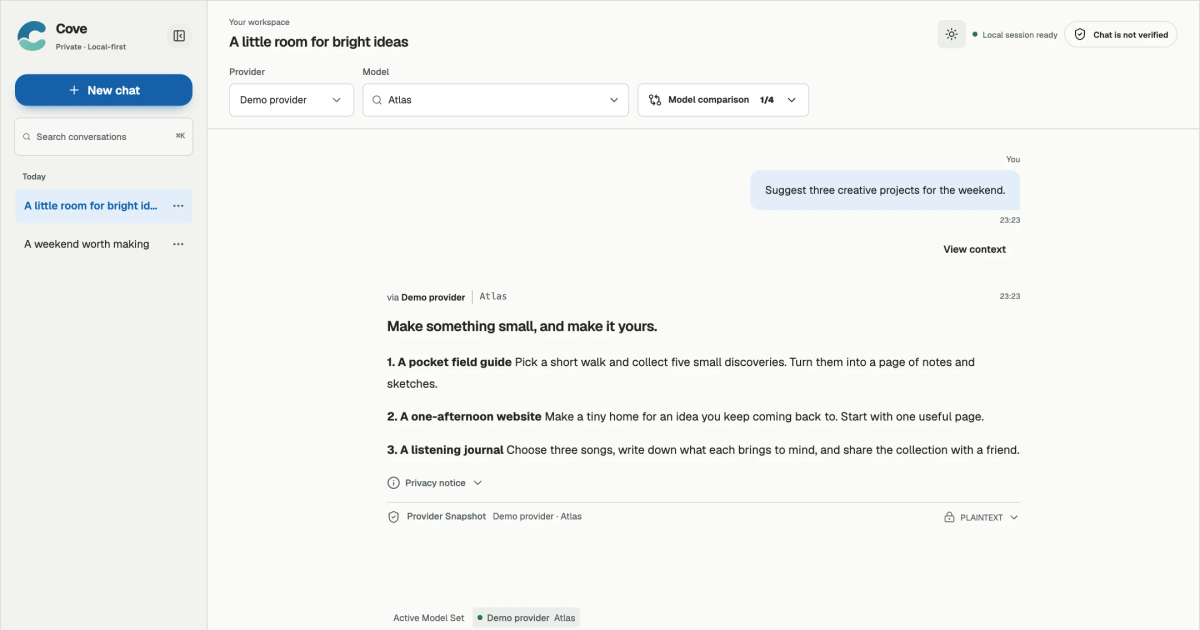
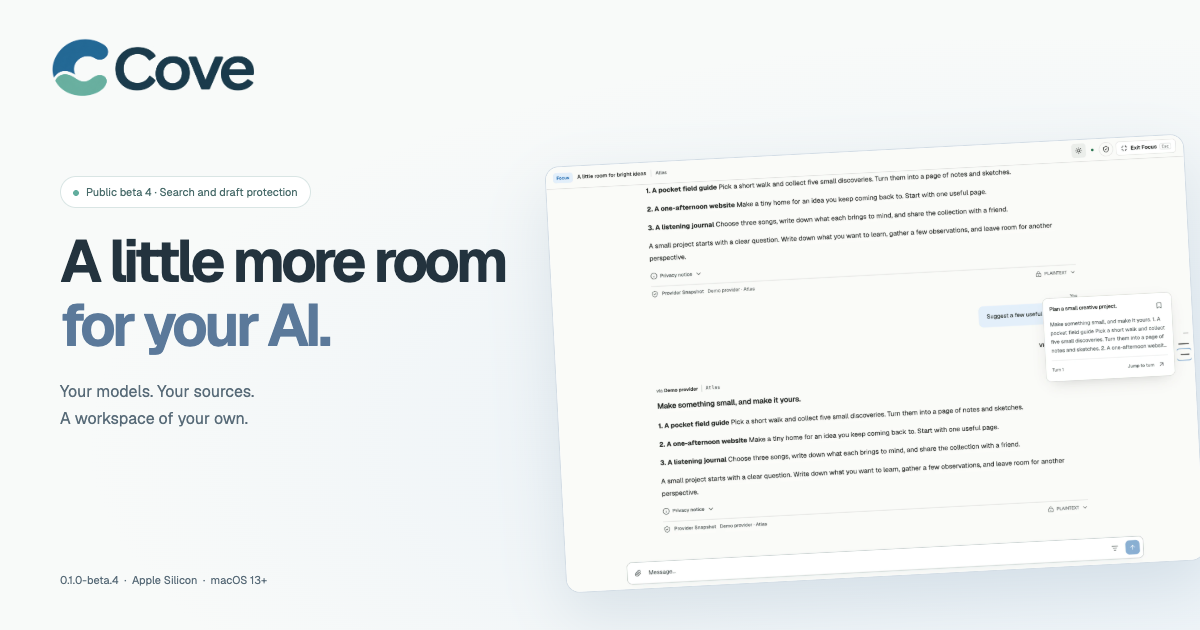
Update Cove website for Beta 4 history and draft protection

diff --git a/docs/cove/index.html b/docs/cove/index.html
@@ -5,13 +5,13 @@
   <meta name="viewport" content="width=device-width, initial-scale=1">
   <meta name="theme-color" content="#fafbf9">
   <title>Cove — A little more room for your AI.</title>
-  <meta name="description" content="A local-first AI chat app for Mac. Chat with files, compare model answers, and keep your conversations on your Mac. Download Cove 0.1.0-beta.3.">
+  <meta name="description" content="A local-first AI chat app for Mac. Chat with files, compare answers, search local history, and protect unsent drafts. Download Cove 0.1.0-beta.4.">
   <link rel="canonical" href="https://tokenfunplus.github.io/cove/">
   <meta property="og:type" content="website">
   <meta property="og:title" content="Cove — A little more room for your AI.">
-  <meta property="og:description" content="Chat with text, code, and PDFs in your own Mac workspace. Cove 0.1.0-beta.3 is available now.">
+  <meta property="og:description" content="Search saved messages, protect drafts, and export comparison choices in your own Mac workspace. Cove 0.1.0-beta.4 is available now.">
   <meta property="og:url" content="https://tokenfunplus.github.io/cove/">
-  <meta property="og:image" content="https://tokenfunplus.github.io/assets/cove-social.png?v=4">
+  <meta property="og:image" content="https://tokenfunplus.github.io/assets/cove-social.png?v=6">
   <meta property="og:image:width" content="1200">
   <meta property="og:image:height" content="630">
   <meta name="twitter:card" content="summary_large_image">
@@ -29,27 +29,27 @@
         <a href="#features">Features</a><a href="#files">File chat</a><a href="#workspace">Your workspace</a><a href="#privacy">Privacy</a>
       </nav>
       <button class="menu-toggle" data-menu type="button" aria-controls="navigation" aria-expanded="false">Menu</button>
-      <a class="button compact header-download" href="https://github.com/tokenfunplus/cove/releases/download/v0.1.0-beta.3/Cove-0.1.0-beta.3-arm64.dmg">Download for Mac <span aria-hidden="true">↓</span></a>
+      <a class="button compact header-download" href="https://github.com/tokenfunplus/cove/releases/download/v0.1.0-beta.4/Cove-0.1.0-beta.4-arm64.dmg">Download for Mac <span aria-hidden="true">↓</span></a>
     </div>
   </header>
 
   <main id="main">
     <section class="hero" aria-labelledby="hero-title">
-      <a class="release-badge" href="https://github.com/tokenfunplus/cove/releases/tag/v0.1.0-beta.3">Beta 3 is here · Focus and find your place <span aria-hidden="true">↗</span></a>
+      <a class="release-badge" href="https://github.com/tokenfunplus/cove/releases/tag/v0.1.0-beta.4">Beta 4 is here · Search your history <span aria-hidden="true">↗</span></a>
       <h1 id="hero-title">A little more room<br><span>for your AI.</span></h1>
-      <p class="intro">Bring your models and source files together. Compare answers, focus on a reply, and bookmark your place.</p>
+      <p class="intro">Bring your models and source files together. Compare answers, search saved messages, and keep your next draft safe.</p>
       <div class="hero-actions">
-        <a class="button" href="https://github.com/tokenfunplus/cove/releases/download/v0.1.0-beta.3/Cove-0.1.0-beta.3-arm64.dmg"><svg viewBox="0 0 24 24" fill="none" stroke="currentColor" stroke-width="1.7" aria-hidden="true"><path d="M12 3v12m-5-5 5 5 5-5M5 16v4h14v-4" stroke-linecap="round" stroke-linejoin="round"/></svg>Download for Mac</a>
+        <a class="button" href="https://github.com/tokenfunplus/cove/releases/download/v0.1.0-beta.4/Cove-0.1.0-beta.4-arm64.dmg"><svg viewBox="0 0 24 24" fill="none" stroke="currentColor" stroke-width="1.7" aria-hidden="true"><path d="M12 3v12m-5-5 5 5 5-5M5 16v4h14v-4" stroke-linecap="round" stroke-linejoin="round"/></svg>Download for Mac</a>
         <a class="button secondary" href="#preview">See Cove in action <span aria-hidden="true">↓</span></a>
       </div>
-      <p class="system-note">0.1.0-beta.3 &nbsp;·&nbsp; Apple Silicon &nbsp;·&nbsp; macOS 13 or later</p>
+      <p class="system-note">0.1.0-beta.4 &nbsp;·&nbsp; Apple Silicon &nbsp;·&nbsp; macOS 13 or later</p>
     </section>
 
     <section class="wide product-section reveal" id="preview" aria-label="Explore the Cove workspace">
       <div class="preview-controls"><div class="segmented js-only" role="group" aria-label="Choose a workspace preview">
         <button type="button" aria-pressed="true" data-preview-src="assets/chat-light.webp?v=4" data-mobile-src="assets/chat-mobile.webp?v=4" data-preview-alt="Actual Cove workspace in light mode, showing a sample conversation about weekend creative projects." data-preview-caption="The actual Cove workspace. Sample prompts and simulated model replies.">Chat</button>
         <button type="button" aria-pressed="false" data-preview-src="assets/compare-light.webp?v=4" data-mobile-src="assets/compare-mobile.webp?v=4" data-preview-alt="Actual Cove workspace with two simulated model replies side by side and one answer selected for the next turn." data-preview-caption="Compare perspectives and choose the answer to continue with. Simulated model replies.">Compare models</button>
-        <button type="button" aria-pressed="false" data-preview-src="assets/focus-light.webp?v=5" data-mobile-src="assets/focus-mobile.webp?v=5" data-preview-alt="Actual Cove Focus mode with a compact header and composer, a turn preview, and browser-local bookmarks. All content is synthetic." data-preview-caption="Focus in Beta 3. More room to read, with timeline previews and browser-local bookmarks.">Focus</button>
+        <button type="button" aria-pressed="false" data-preview-src="assets/focus-light.webp?v=5" data-mobile-src="assets/focus-mobile.webp?v=5" data-preview-alt="Actual Cove Focus mode with a compact header and composer, a turn preview, and browser-local bookmarks. All content is synthetic." data-preview-caption="Focus mode. More room to read, with timeline previews and browser-local bookmarks.">Focus</button>
         <button type="button" aria-pressed="false" data-preview-src="assets/files-light.webp?v=4" data-mobile-src="assets/files-mobile.webp?v=4" data-preview-alt="Actual Cove file chat with a saved Markdown source, a simulated answer, and source citations." data-preview-caption="Saved sources in Cove. Saved source text and simulated model replies.">Files</button>
         <button type="button" aria-pressed="false" data-preview-src="assets/chat-dark.webp?v=4" data-mobile-src="assets/chat-dark-mobile.webp?v=4" data-preview-alt="The actual Cove workspace in dark mode, with a sample conversation and a locally stored conversation list." data-preview-caption="A quieter view after dark. Actual Cove interface with sample conversation content.">Dark mode</button>
       </div></div>
@@ -80,8 +80,18 @@
       <figure class="comparison-visual"><div class="comparison-crop"><img src="assets/compare-light.webp?v=4" width="2160" height="1440" alt="A close view of Cove's actual model comparison, with Atlas selected and Lumen retained as another perspective. Both replies are simulated." loading="lazy"></div><figcaption class="visual-caption">Your choice becomes the next turn's context.</figcaption></figure>
     </section>
 
+    <section class="wrap section" id="history" aria-labelledby="history-title">
+      <div class="center-heading"><p class="eyebrow">New in Beta 4</p><h2 id="history-title">Find the conversation.<br>Keep your next thought.</h2><p>Search titles and saved message text on your Mac. Read a matching excerpt and jump to the turn you need.</p></div>
+      <div class="privacy-grid">
+        <article class="privacy-card"><h3>Search your local history.</h3><p>Unicode-aware message search stays on your Mac, with indexed phrase matching and separate active and archived views. Searching does not contact a Provider.</p><div class="privacy-points"><span>Message excerpts</span><span>Turn navigation</span><span>Local search</span></div></article>
+        <article class="privacy-card remote"><h3>Keep unsent work safe.</h3><p>Cove asks before discarding text or attachments. Stay preserves the draft. If stopping a response or creating a conversation fails, your unsent work stays in place.</p><div class="privacy-points"><span>Draft protection</span><span>Attachment protection</span><span>Confirmed navigation</span></div></article>
+      </div>
+      <div class="appearance-window"><img src="assets/history-search.png" width="1440" height="900" alt="The actual Cove workspace showing a local message search and a matching excerpt, using synthetic conversation content." loading="lazy"></div>
+      <p class="preview-caption">Actual local search with sample content. Markdown exports also retain Selected Answer, skipped, and unresolved comparison state. <a class="text-link" style="font-size:inherit" href="https://github.com/tokenfunplus/cove/blob/main/docs/user-guide.md#appearance-and-local-data">Read the history guide ↗</a></p>
+    </section>
+
     <section class="wrap section" id="focus" aria-labelledby="focus-title">
-      <div class="center-heading"><p class="eyebrow">New in Beta 3</p><h2 id="focus-title">More room to read.<br>A way back to every idea.</h2><p>Enter Focus to expand the reply area. Keep your place with a timeline that follows the conversation.</p></div>
+      <div class="center-heading"><p class="eyebrow">Focus and timeline</p><h2 id="focus-title">More room to read.<br>A way back to every idea.</h2><p>Enter Focus to expand the reply area. Keep your place with a timeline that follows the conversation.</p></div>
       <div class="privacy-grid">
         <article class="privacy-card"><h3>Let the reply take the stage.</h3><p>Hide the sidebar, compact the header and input, and read long answers with model identity still visible. Exit Focus or press Escape to return to your previous layout. Drafts, attachments, and active responses stay with you.</p><div class="privacy-points"><span>Expanded reading area</span><span>Compact composer</span><span>Reversible layout</span></div></article>
         <article class="privacy-card remote"><h3>Find your place again.</h3><p>Hover a timeline marker for a prompt and answer excerpt, move into its preview to save a bookmark, or click to jump to that turn. The active marker follows your reading position, in normal and Focus layouts.</p><div class="privacy-points"><span>Turn previews</span><span>Click to jump</span><span>Bookmark controls</span></div></article>
@@ -122,10 +132,10 @@
 
     <section class="wrap" id="download" aria-labelledby="download-title">
       <div class="download-panel">
-        <div class="download-heading"><div class="download-title"><img src="icon.svg?v=4" width="59" height="59" alt=""><div><h2 id="download-title">A good place to start.</h2><p>Cove for Mac &nbsp;·&nbsp; Public beta 0.1.0-beta.3</p></div></div><div class="download-actions"><a class="button" href="https://github.com/tokenfunplus/cove/releases/download/v0.1.0-beta.3/Cove-0.1.0-beta.3-arm64.dmg">Download for Mac <span aria-hidden="true">↓</span></a><p>Apple Silicon &nbsp;·&nbsp; macOS 13+</p></div></div>
+        <div class="download-heading"><div class="download-title"><img src="icon.svg?v=4" width="59" height="59" alt=""><div><h2 id="download-title">A good place to start.</h2><p>Cove for Mac &nbsp;·&nbsp; Public beta 0.1.0-beta.4</p></div></div><div class="download-actions"><a class="button" href="https://github.com/tokenfunplus/cove/releases/download/v0.1.0-beta.4/Cove-0.1.0-beta.4-arm64.dmg">Download for Mac <span aria-hidden="true">↓</span></a><p>Apple Silicon &nbsp;·&nbsp; macOS 13+</p></div></div>
         <ol class="install-steps"><li><div><strong>Download the beta</strong>Get the DMG from GitHub Releases. Developer ID signed and Apple notarized.</div></li><li><div><strong>Make it at home</strong>Open the DMG and drag Cove to Applications. Launch it from there.</div></li><li><div><strong>Bring your models</strong>Add a provider and API key in Settings, choose a model, and start a conversation.</div></li></ol>
       </div>
-      <div class="release-links"><a href="https://github.com/tokenfunplus/cove/blob/main/docs/user-guide.md">User guide ↗</a><a href="https://github.com/tokenfunplus/cove/releases/tag/v0.1.0-beta.3">Release notes ↗</a><a href="https://github.com/tokenfunplus/cove/releases/download/v0.1.0-beta.3/Cove-0.1.0-beta.3-arm64.dmg.sha256">SHA-256 checksum ↗</a><a href="https://github.com/tokenfunplus/cove">View source ↗</a></div>
+      <div class="release-links"><a href="https://github.com/tokenfunplus/cove/blob/main/docs/user-guide.md">User guide ↗</a><a href="https://github.com/tokenfunplus/cove/releases/tag/v0.1.0-beta.4">Release notes ↗</a><a href="https://github.com/tokenfunplus/cove/releases/download/v0.1.0-beta.4/Cove-0.1.0-beta.4-arm64.dmg.sha256">SHA-256 checksum ↗</a><a href="https://github.com/tokenfunplus/cove">View source ↗</a></div>
     </section>
 
     <section class="wrap section faq-section" aria-labelledby="faq-title">
@@ -136,14 +146,15 @@
         <details><summary>Are models running on my Mac?</summary><p>Cove stores history locally and connects to your configured providers. Inference happens wherever the selected provider runs. Local storage does not imply local model execution.</p></details>
         <details><summary>What can Cove verify?</summary><p>Supported NearAI models can use browser-side encryption and hardware attestation. Evidence is shown per response and support varies by model. Ordinary HTTPS does not by itself prove confidential model execution. The NearAI preset currently uses its staging service.</p></details>
         <details><summary>Which files can I attach?</summary><p>File chat supports UTF-8 text, Markdown, code, and text-based PDFs: up to four files per turn, each up to 4 MiB. Extracted text and context have additional limits. Scanned-only PDFs require OCR first. Original bytes and source text are saved locally; selected Providers receive extracted text.</p></details>
-        <details><summary>What changed in Beta 3?</summary><p>Focus mode expands the reading area while keeping drafts and active responses. A slim timeline offers turn previews, click-to-jump navigation, and bookmarks saved in this browser. The native Launcher adds authenticated New Chat and Settings shortcuts, optional launch at login and a global shortcut, and grouped troubleshooting.</p></details>
+        <details><summary>What changed in Beta 4?</summary><p>Search saved messages with excerpts and turn navigation, protect unsent text and attachments when navigating, and keep comparison choices in Markdown exports. The Launcher also offers an explicit Check for Beta Updates action. Focus, timeline bookmarks, model comparison, and file chat remain available.</p></details>
+        <details><summary>Can I return to an earlier beta?</summary><p>Beta 4 upgrades the local database and builds a search index for existing history. Earlier builds cannot reopen the upgraded database. Quit Cove and keep a backup of the data directory before upgrading if you need a rollback path; Keychain credentials are stored separately.</p></details>
         <details><summary>Can I change the interface language?</summary><p>The interface currently uses English. Messages, conversation titles, and prompts support Unicode content, including Chinese.</p></details>
-        <details><summary>How do I get beta updates?</summary><p>Download beta updates from GitHub Releases. Cove's Check for Updates action follows the stable channel, which becomes available with the first stable release. Features and behavior may change during beta testing.</p></details>
+        <details><summary>How do I get beta updates?</summary><p>Choose Check for Beta Updates in the Launcher to find newer beta, release-candidate, or final versions. This is an explicit check and does not install updates. Check for Updates continues to follow the stable channel; older builds can download beta updates from GitHub Releases.</p></details>
       </div>
     </section>
   </main>
 
-  <footer class="site-footer"><div class="wrap footer-inner"><a class="footer-brand" href="../"><img src="icon.svg?v=4" width="24" height="24" alt="">Cove &nbsp;·&nbsp; Made by TokenFunPlus</a><div class="footer-links"><a href="https://discord.gg/7jdddhG8ZG">Discord</a><a href="https://github.com/tokenfunplus/cove">GitHub</a><a href="https://github.com/tokenfunplus/cove/blob/main/docs/privacy.md">Privacy</a><a href="https://github.com/tokenfunplus/cove/releases/tag/v0.1.0-beta.3">Release notes</a><a href="../">All projects ↗</a></div></div></footer>
+  <footer class="site-footer"><div class="wrap footer-inner"><a class="footer-brand" href="../"><img src="icon.svg?v=4" width="24" height="24" alt="">Cove &nbsp;·&nbsp; Made by TokenFunPlus</a><div class="footer-links"><a href="https://discord.gg/7jdddhG8ZG">Discord</a><a href="https://github.com/tokenfunplus/cove">GitHub</a><a href="https://github.com/tokenfunplus/cove/blob/main/docs/privacy.md">Privacy</a><a href="https://github.com/tokenfunplus/cove/releases/tag/v0.1.0-beta.4">Release notes</a><a href="../">All projects ↗</a></div></div></footer>
   <dialog class="preview-dialog" data-preview-dialog aria-label="Full Cove workspace preview"><button class="dialog-close" type="button" data-close-dialog>Close ×</button><img src="assets/chat-light.webp?v=4" width="2160" height="1440" alt="The Cove workspace preview."></dialog>
 </body>
 </html>

diff --git a/docs/index.html b/docs/index.html
@@ -22,7 +22,7 @@
   <main id="main" class="container">
     <section class="home-hero"><p class="eyebrow">AI tools / Apps / Experiments</p><h1>where tokens<br>meet <span>ideas.</span></h1><p>We build AI tools and applications for everyday work, and smaller tools that make familiar workspaces feel like your own.</p></section>
     <div class="project-grid">
-      <a class="project-tile" href="cove/"><img src="assets/cove-social.png?v=4" width="1200" height="630" alt="Cove — Your models. Your workspace."><div class="project-tile-copy"><p class="eyebrow">AI chat for Mac / Beta 2</p><h2>Cove</h2><p>Chat with files, compare models, and keep your conversation history on your Mac.</p><strong>Meet Cove <span aria-hidden="true">↗</span></strong></div></a>
+      <a class="project-tile" href="cove/"><img src="assets/cove-social.png?v=6" width="1200" height="630" alt="Cove — Your models. Your workspace."><div class="project-tile-copy"><p class="eyebrow">AI chat for Mac / Beta 4</p><h2>Cove</h2><p>Compare models, search local messages, and protect unsent drafts in your Mac workspace.</p><strong>Meet Cove <span aria-hidden="true">↗</span></strong></div></a>
       <a class="project-tile" href="binance-studio/"><img src="assets/binance-social.png?v=2" width="1200" height="630" alt="Binance Studio — A workspace that feels like you."><div class="project-tile-copy"><p class="eyebrow">Browser extension / Public source</p><h2>Binance Studio</h2><p>Themes, layouts, and price effects for Binance Global. Make your browser workspace your own.</p><strong>Explore Binance Studio <span aria-hidden="true">↗</span></strong></div></a>
     </div>
   </main>

diff --git a/README.md b/README.md
@@ -21,7 +21,7 @@ GitHub Pages publishes `docs/` from `main`. A push to that branch triggers a new
 ## Content and privacy
 
 - All copy is English. Product capabilities must match the relevant project documentation.
-- Cove is public and its `0.1.0-beta.3` release is available. Keep the version, requirements, release links, file chat limits, and download link aligned with the published GitHub release. The current UI is English and user content supports Unicode. Screenshot previews on the website do not contact a model provider.
+- Cove is public and its `0.1.0-beta.4` release is available. Keep the version, requirements, release links, file chat limits, and download link aligned with the published GitHub release. The current UI is English and user content supports Unicode. Screenshot previews on the website do not contact a model provider.
 - Cove stores history locally, while prompts go to the selected provider. Do not imply that model execution is local or that all providers support confidential inference.
 - Binance Studio screenshots come from its public simulation pages. Prices and orders shown are examples, with no account connected.
 - Keep credentials, conversation data, personal notes, and local application state out of this repository.
@@ -46,3 +46,5 @@ Manrope and Space Grotesk are self-hosted Latin variable fonts from [Google Font
 Cove uses the self-hosted Geist Latin variable font from its application dependency `@fontsource-variable/geist` 5.2.9. Its SIL Open Font License is retained at `docs/cove/assets/geist-OFL.txt`.
 
 Focus and timeline previews for Beta 3 use UI commit `22441b6`, included in release source `23503cd`. They were captured with an isolated Local Service, synthetic prompts, and a simulated provider; bookmarks contain only fixture identifiers. The earlier file-chat and skin captures retain their Beta 2 provenance above.
+
+The Beta 4 site update adds local message search, draft protection, comparison-export state, explicit beta-update discovery, and database-upgrade notes. The search image is the synthetic application capture from Cove source `2c9eaf8`; existing Focus/file/skin captures retain their provenance above. The refreshed social cover uses the existing real Focus capture with updated Beta 4 copy.
